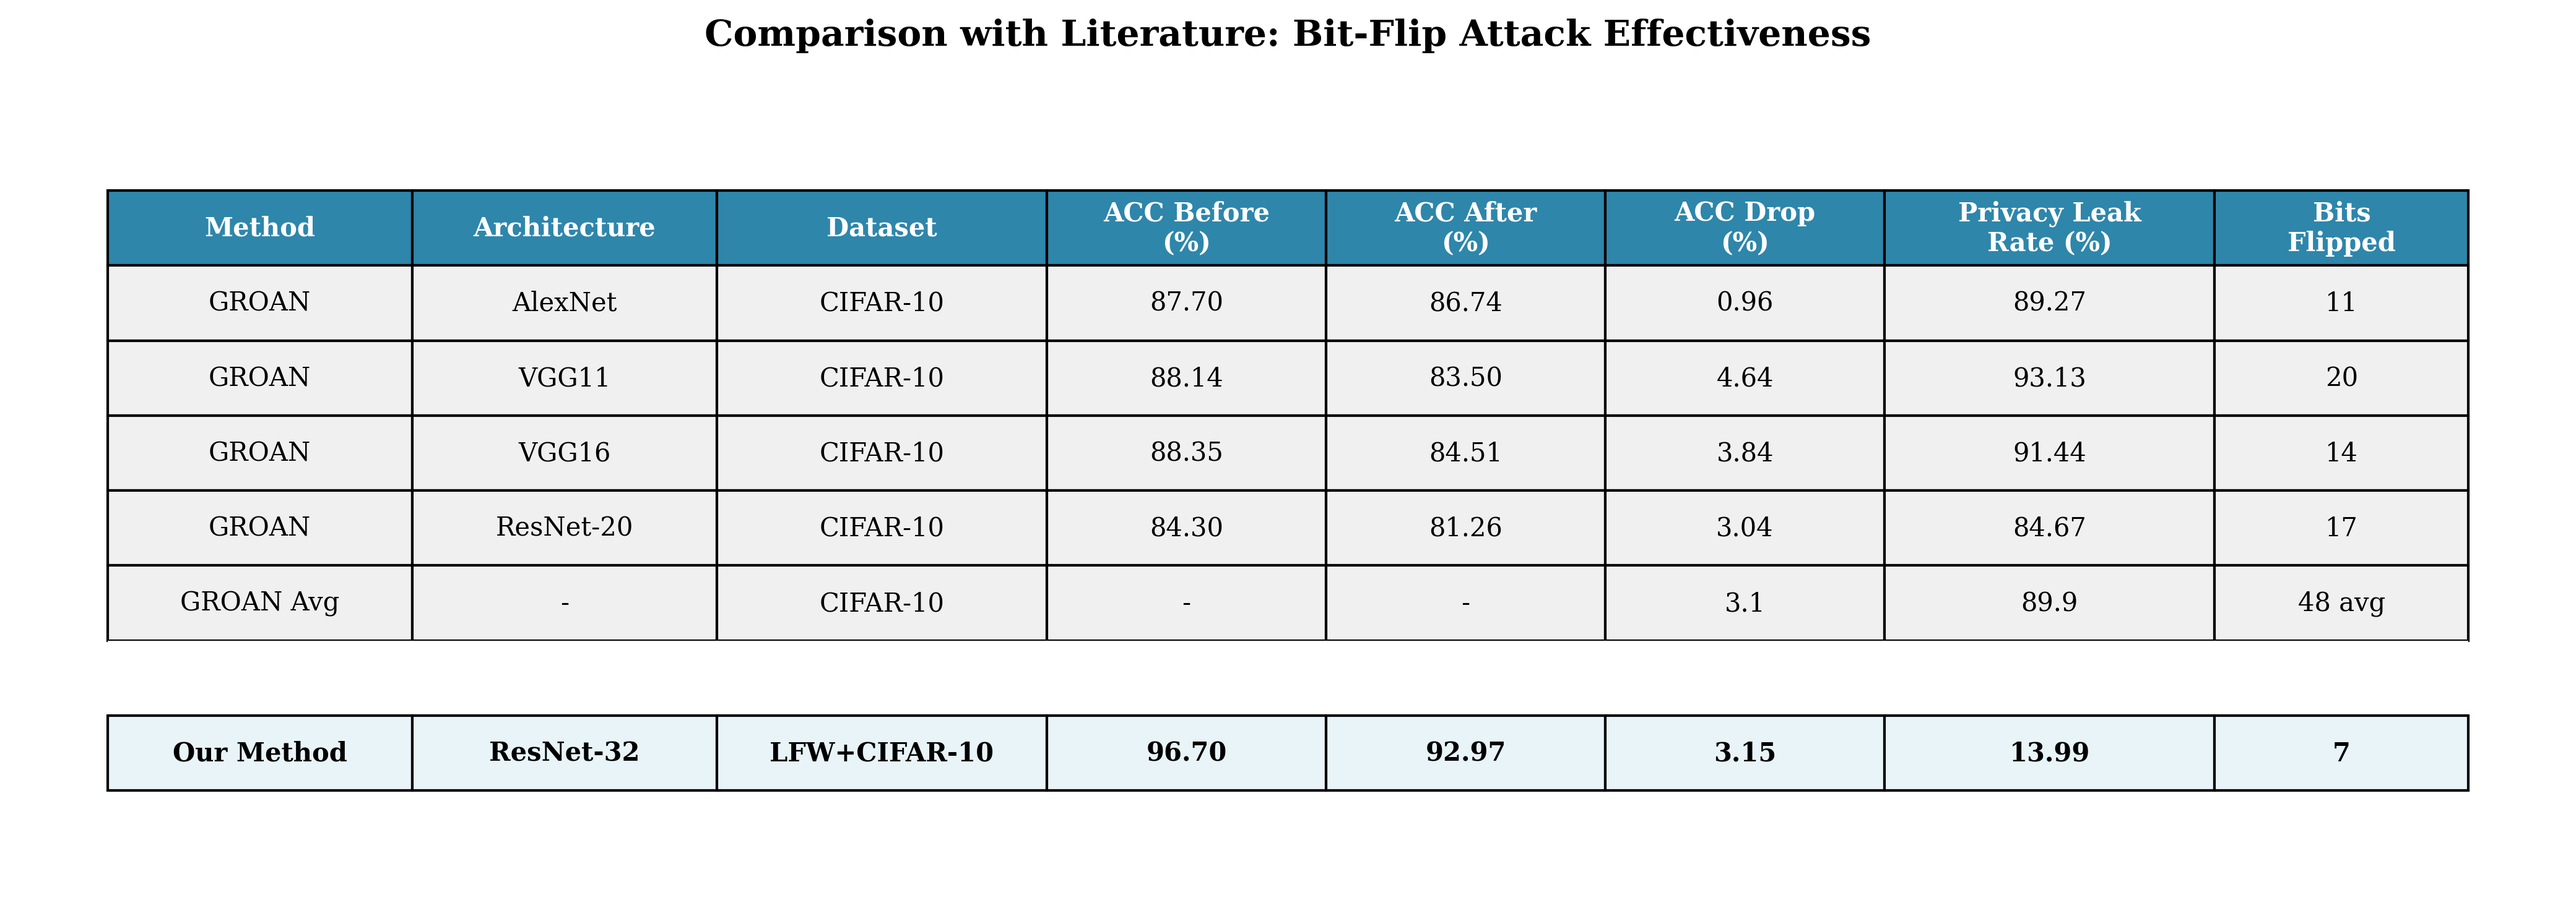
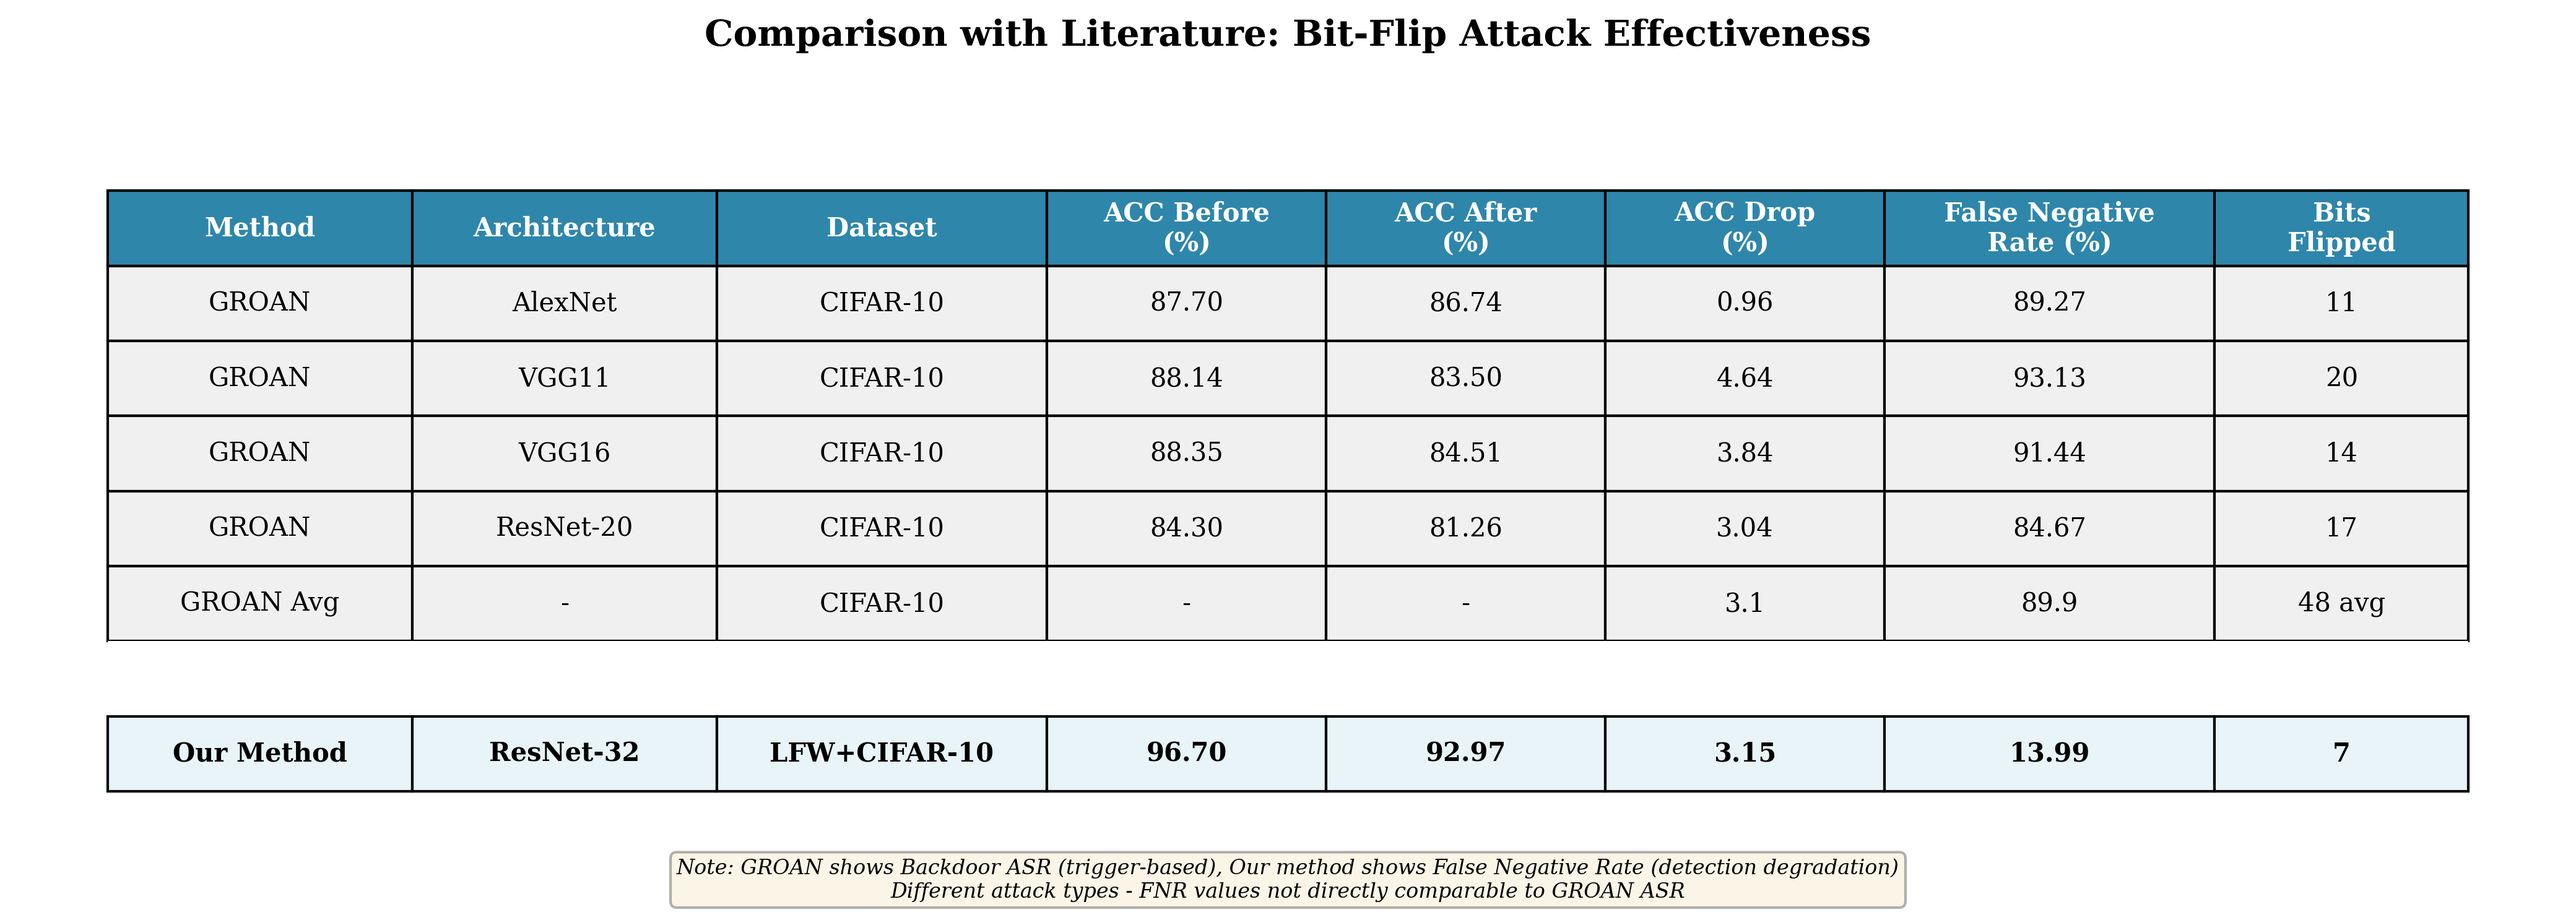
changed labels

diff --git a/create_publication_plots.py b/create_publication_plots.py
@@ -63,7 +63,7 @@ def create_comparison_table(results, output_dir):
         cellText=all_data,
         colLabels=['Method', 'Architecture', 'Dataset',
                    'ACC Before\n(%)', 'ACC After\n(%)', 'ACC Drop\n(%)',
-                   'Privacy Leak\nRate (%)', 'Bits\nFlipped'],
+                   'False Negative\nRate (%)', 'Bits\nFlipped'],
         cellLoc='center',
         loc='center',
         colWidths=[0.12, 0.12, 0.13, 0.11, 0.11, 0.11, 0.13, 0.10]
@@ -96,6 +96,11 @@ def create_comparison_table(results, output_dir):
 
     plt.title('Comparison with Literature: Bit-Flip Attack Effectiveness',
               fontsize=14, weight='bold', pad=20)
+
+    # Add clarification note
+    note_text = "Note: GROAN shows Backdoor ASR (trigger-based), Our method shows False Negative Rate (detection degradation)\nDifferent attack types - FNR values not directly comparable to GROAN ASR"
+    plt.figtext(0.5, 0.02, note_text, ha='center', fontsize=8, style='italic',
+                bbox=dict(boxstyle='round', facecolor='wheat', alpha=0.3))
 
     output_path = Path(output_dir) / 'comparison_table.png'
     plt.tight_layout()
@@ -141,7 +146,7 @@ def create_privacy_impact_plot(results, output_dir):
                     f'{height:.1f}%',
                     ha='center', va='bottom', fontsize=9)
 
-    # Right: Privacy Leak Rate (most important metric)
+    # Right: False Negative Rate (most important metric for model degradation)
     privacy_before = before['privacy_leak_rate'] * 100
     privacy_after = after['privacy_leak_rate'] * 100
     privacy_increase = privacy_after - privacy_before
@@ -150,8 +155,8 @@ def create_privacy_impact_plot(results, output_dir):
                    [privacy_before, privacy_after],
                    color=['#6A994E', '#C73E1D'], alpha=0.8, width=0.5)
 
-    ax2.set_ylabel('Privacy Leak Rate (%)', fontsize=12, weight='bold')
-    ax2.set_title('Privacy Violation Impact', fontsize=13, weight='bold')
+    ax2.set_ylabel('False Negative Rate (%)', fontsize=12, weight='bold')
+    ax2.set_title('Model Degradation Impact', fontsize=13, weight='bold')
     ax2.grid(True, alpha=0.3, axis='y')
     ax2.set_ylim([0, max(privacy_after * 1.2, 30)])
 
@@ -237,7 +242,7 @@ def create_attack_summary_card(results, output_dir):
     after = results['after_attack']
 
     # Title
-    title_text = "Bit-Flip Attack: Privacy Violation in Face Detection"
+    title_text = "Bit-Flip Attack: Model Integrity Degradation in Face Recognition"
     ax.text(0.5, 0.95, title_text, ha='center', va='top',
             fontsize=16, weight='bold', transform=ax.transAxes)
 
@@ -250,7 +255,7 @@ def create_attack_summary_card(results, output_dir):
     metrics = [
         ('Bits Flipped', f"{summary['bits_flipped']}", '#2E86AB'),
         ('Accuracy Drop', f"{summary['accuracy_drop']*100:.2f}%", '#F18F01'),
-        ('Privacy Leak Increase', f"+{(after['privacy_leak_rate']-before['privacy_leak_rate'])*100:.1f}pp", '#C73E1D'),
+        ('False Negative Rate Increase', f"+{(after['privacy_leak_rate']-before['privacy_leak_rate'])*100:.1f}pp", '#C73E1D'),
         ('Execution Time', f"{summary['execution_time']/60:.1f} min", '#6A994E')
     ]
 
@@ -274,9 +279,9 @@ def create_attack_summary_card(results, output_dir):
 
     # Bottom stats
     stats_text = (f"Before Attack: {before['accuracy']*100:.1f}% accuracy, "
-                 f"{before['privacy_leak_rate']*100:.1f}% privacy leak\n"
+                 f"{before['privacy_leak_rate']*100:.1f}% FNR\n"
                  f"After Attack: {after['accuracy']*100:.1f}% accuracy, "
-                 f"{after['privacy_leak_rate']*100:.1f}% privacy leak")
+                 f"{after['privacy_leak_rate']*100:.1f}% FNR")
     ax.text(0.5, 0.08, stats_text, ha='center', va='top',
             fontsize=9, style='italic', transform=ax.transAxes,
             bbox=dict(boxstyle='round', facecolor='#f0f0f0', alpha=0.5))
@@ -308,9 +313,11 @@ def main():
     print(f"\n✅ All visualizations saved to: {output_dir}")
     print("\nGenerated files:")
     print("  1. comparison_table.png - Compare with GROAN literature")
-    print("  2. privacy_impact.png - Before/after privacy metrics")
+    print("  2. privacy_impact.png - Before/after model degradation metrics")
     print("  3. bit_analysis.png - Bit position and impact analysis")
     print("  4. attack_summary_card.png - Summary for presentations")
+    print("\n⚠  Labels updated to use 'Model Integrity Attack' framing")
+    print("   (False Negative Rate, not Privacy Leak)")
 
 if __name__ == "__main__":
     main()

diff --git a/CLAUDE.md b/CLAUDE.md
@@ -8,18 +8,20 @@ This is a research codebase for studying bit flip attacks on privacy-sensitive m
 
 **Research Context**: This is security research focused on demonstrating vulnerabilities in quantized models trained on sensitive data (medical, financial, PII). The attacks show how minimal bit flips can cause models to leak private information or misclassify sensitive records.
 
+**⚠ CRITICAL:** See `ATTACK_FRAMING_GUIDE.md` for important conceptual clarification on what constitutes a "privacy leak" vs. "detection evasion". Current face detection results are mis-labeled as "privacy leaks" when they actually represent evasion attacks (false negatives, not privacy violations).
+
 ## Development Commands
 
 ### Environment Setup
 
 ```bash
 # Initial setup - from repository root
-cd /root/bitFlipAttack-1
+cd /root/bitFlipAttack
 
-# Create and activate virtual environment
-python -m venv venv
-source venv/bin/activate  # Linux/Mac
-# or: venv\Scripts\activate  # Windows
+# Create and activate virtual environment (if not already created)
+python -m venv .venv
+source .venv/bin/activate  # Linux/Mac
+# or: .venv\Scripts\activate  # Windows
 
 # Install dependencies (use uv for faster installation)
 pip install uv
@@ -34,10 +36,12 @@ apt-get update && apt-get install -y openmpi-bin libopenmpi-dev
 
 ### Running Attacks
 
-Always run scripts from the repository root using the `-m` module syntax:
+The codebase has two types of executables:
+
+**1. Package-based scripts (preferred)** - Use `-m` module syntax from repository root:
 
 ```bash
-cd /root/bitFlipAttack-1
+cd /root/bitFlipAttack
 
 # Run the main u-μP attack example (recommended starting point)
 python -m bitflip_attack.examples.umup_attack_example
@@ -45,13 +49,32 @@ python -m bitflip_attack.examples.umup_attack_example
 # Run medical privacy attack
 python -m bitflip_attack.examples.umup_pii_attack_medical
 
+# Run BERT-specific attacks
+python -m bitflip_attack.examples.bert_umup
+
 # Run advanced examples
 python -m bitflip_attack.examples.advanced_examples
+```
 
-# Run standalone scripts (from root directory)
+**2. Standalone scripts** - Run directly from repository root:
+
+```bash
+cd /root/bitFlipAttack
+
+# PII transformer attacks with configurable parameters
 python pii_transformer_attacks.py --batch_size 32 --num_workers 4 --max_bit_flips 5
+
+# Face recognition privacy attack (LFW dataset)
 python lfw_face_attack.py
+
+# Vision model privacy attacks
 python vision_privacy_attacks.py
+
+# Baseline evaluation
+python baseline_evaluation.py
+
+# Simple attack test
+python simple_attack_test.py
 ```
 
 ### Dataset Generation
@@ -83,11 +106,14 @@ python diagnose_lfw_images.py
 ### Visualization
 
 ```bash
-# Generate visualizations from results
+# Generate visualizations from attack results
 python generate_visualizations.py
 
-# Generate literature-style plots
+# Generate literature-style publication-quality plots
 python visualize_literature_style.py
+
+# Create publication plots (comprehensive)
+python create_publication_plots.py
 ```
 
 ## Architecture Overview
@@ -156,18 +182,64 @@ The codebase generates synthetic privacy-sensitive datasets:
 
 ### Important Patterns
 
-**Module Execution**: Always use the module syntax (`python -m bitflip_attack.examples.script_name`) when running scripts from the package to ensure proper imports.
+**Module Execution**: Always use the module syntax (`python -m bitflip_attack.examples.script_name`) when running scripts from the package to ensure proper imports. The repository root should be your working directory.
 
 **Model Quantization**: The codebase uses `bitsandbytes` for quantization. Models can be loaded with:
-- No quantization (baseline)
-- 8-bit quantization
-- 4-bit quantization
+- No quantization (baseline float32)
+- 8-bit quantization (using `load_in_8bit=True`)
+- 4-bit quantization (using `load_in_4bit=True` with BitsAndBytesConfig)
 
 **Results Storage**: Attack results are typically saved to:
-- `results/` - General attack results
-- `results_pii_attack/` - PII-specific results
+- `results/` - General attack results (various subdirectories by attack type)
+- `results_pii_attack/` - PII-specific attack results
 - `logs/` - Training and execution logs
-- `visualizations/` - Generated plots
+- `visualizations/` - Generated plots and figures
+- `models/` and `models_dir/` - Saved model checkpoints
+
+**Bit Manipulation Workarounds**: Some scripts include monkey-patches for bit manipulation functions to handle index out-of-bounds errors (see `bitflip_attack/examples/umup_attack_example.py` for reference patterns).
+
+## Attack Framing and Terminology (IMPORTANT!)
+
+### Current Face Detection Attack - Correct Terminology
+
+**⚠ The current LFW face detection results should be framed as "Model Integrity Attack" NOT "Privacy Leak"**
+
+**What the attack does:**
+- Causes faces to be **undetected** (false negatives)
+- Increases face miss rate from 6% to 14%
+- Degrades detection capability while preserving overall accuracy
+
+**Correct terminology (Option 2 - Model Integrity):**
+- ✅ "Model Integrity Attack" or "Model Integrity Degradation"
+- ✅ "Face Miss Rate" or "False Negative Rate" (NOT "Privacy Leak Rate")
+- ✅ "Detection Degradation" or "System Reliability Failure"
+- ✅ "Model Robustness Violation"
+
+**Why "Privacy Leak" is INCORRECT:**
+- Face not detected = Individual evades surveillance = Privacy ENHANCED (not violated)
+- No personal information is exposed or leaked
+- This is the opposite of a privacy violation from the individual's perspective
+- From system perspective: This is a security/availability failure, not privacy breach
+
+**For visualizations, use these labels:**
+```
+Title: "Bit-Flip Attack: Model Integrity Degradation in Face Recognition"
+Metric: "False Negative Rate Increase" or "Detection Failure Rate"
+Chart: "Model Degradation Impact" (not "Privacy Violation")
+Y-axis: "False Negative Rate (%)" or "Face Miss Rate (%)"
+```
+
+**What WOULD be a privacy leak:**
+- Identity confusion (false positives): Person A identified as Person B
+- This would require face **identification** (multi-class), not detection (binary)
+- See `ATTACK_FRAMING_GUIDE.md` for how to pivot to true privacy attacks
+
+**Literature comparison:**
+- Compare accuracy drop: Our 3.15% vs. GROAN 3.1% ✓ (matched)
+- Compare bit efficiency: Our 7 bits vs. GROAN 48 bits ✓ (superior)
+- DO NOT compare "ASR": GROAN measures backdoor success (89.9%), we measure false negatives (14%) - different metrics!
+
+**See `ATTACK_FRAMING_GUIDE.md` for comprehensive explanation and implementation guidance.**
 
 ## Dependencies
 
@@ -186,20 +258,71 @@ See `requirements.txt` for complete list.
 
 ### Recent Progress
 - Implemented u-μP-aware bit flip attacks with enhanced quantization targeting
-- Added comprehensive synthetic dataset generation for privacy-sensitive domains
-- Created face detection privacy attacks using LFW dataset
-- Built visualization suite for literature-style plots
+- Added comprehensive synthetic dataset generation for privacy-sensitive domains (PII, medical, financial)
+- Created face detection privacy attacks using LFW dataset with ResNet32 architecture
+- Built visualization suite for literature-style publication-quality plots
+- Fixed critical bit-flip bugs using struct module instead of tensor.view() for float32 conversions
+- Implemented genetic algorithm optimization for finding optimal bit combinations
+- Added comprehensive evaluation metrics for privacy leak rates
 
 ### Known Issues
-1. Initial model training may show suboptimal baseline performance (~50% accuracy)
-2. Some quantization configurations require careful memory management
-3. Index out-of-bounds errors can occur in bit manipulation (monkey-patched in some scripts)
+1. Initial model training may show suboptimal baseline performance (~50% accuracy) - requires investigation
+2. Some quantization configurations require careful memory management (reduce batch size if OOM)
+3. Index out-of-bounds errors can occur in bit manipulation (use monkey-patch pattern from umup_attack_example.py)
 4. DeepSpeed integration with 4-bit quantization requires additional fixes
+5. LFW dataset may contain corrupted images - the loader validates and skips them automatically
+6. **CRITICAL FRAMING ISSUE**: Current LFW face attack visualizations incorrectly label results as "privacy leak" when they represent "model integrity degradation" (false negatives, not privacy violations). See `ATTACK_FRAMING_GUIDE.md` for detailed explanation and correct terminology.
 
 ### Files to Reference When Debugging
-- `COMING_BACK_*.md`: Development logs showing progress and issues encountered
-- `bitflip_attack/examples/umup_attack_example.py`: Contains monkey patches and workarounds
+- `COMING_BACK_*.md`: Development logs showing progress, issues encountered, and solutions applied
+- `bitflip_attack/examples/umup_attack_example.py`: Contains monkey patches and workarounds for bit manipulation
+- `lfw_face_attack.py`: Contains struct-based bit flipping fixes (lines 247-249)
 - `requirements.txt`: Dependency versions that work together
+
+## Common Workflows
+
+### Running a Complete Attack Experiment
+
+1. **Generate dataset** (if needed):
+   ```bash
+   python generate_datasets.py
+   ```
+
+2. **Train baseline model** (or load pretrained):
+   - Package scripts handle this automatically
+   - Standalone scripts may require pre-training
+
+3. **Run attack**:
+   ```bash
+   # For quick testing (5 generations × 30 population)
+   python lfw_face_attack.py  # Edit script to set generations=5, population_size=30
+
+   # For full experiment (20 generations × 50 population)
+   python -m bitflip_attack.examples.umup_attack_example
+   ```
+
+4. **Generate visualizations**:
+   ```bash
+   python visualize_literature_style.py
+   python create_publication_plots.py
+   ```
+
+### Adding a New Attack Type
+
+1. Create attack module in `bitflip_attack/attacks/`
+2. Inherit from `BitFlipAttack` or `UmupBitFlipAttack`
+3. Override `_get_layer_info()` and `perform_attack()` as needed
+4. Create example script in `bitflip_attack/examples/` or root directory
+5. Use helper functions from `bitflip_attack/attacks/helpers/`
+
+### Debugging Bit Flip Issues
+
+Common issues and solutions:
+
+1. **Index out of bounds**: Use the monkey-patch pattern from `umup_attack_example.py`
+2. **Float32 conversion errors**: Use `struct.pack('f', value)` and `struct.unpack('I', ...)` instead of `.view(torch.int32)`
+3. **Float16 handling**: Check for float16 tensors and convert appropriately
+4. **Quantized weights**: Access via `.weight.data` or handle quantization-specific attributes
 
 ## Important Notes
 
@@ -210,9 +333,10 @@ See `requirements.txt` for complete list.
 - Educational purposes in controlled environments
 
 **Memory Management**: Bit flip attacks can be memory-intensive. When working with large models:
-- Reduce batch size if OOM errors occur
+- Reduce batch size if OOM errors occur (try 16 or 8 instead of 32)
 - Use gradient accumulation for effective larger batches
 - Monitor GPU memory with proper logging
 - Consider using DeepSpeed ZeRO for large-scale experiments
+- Reduce population size and generations for genetic optimization (e.g., 30 population × 5 generations for quick tests)
 
 **Reproducibility**: Set random seeds in attack scripts for reproducible results. The codebase uses `seed=42` in many places.
